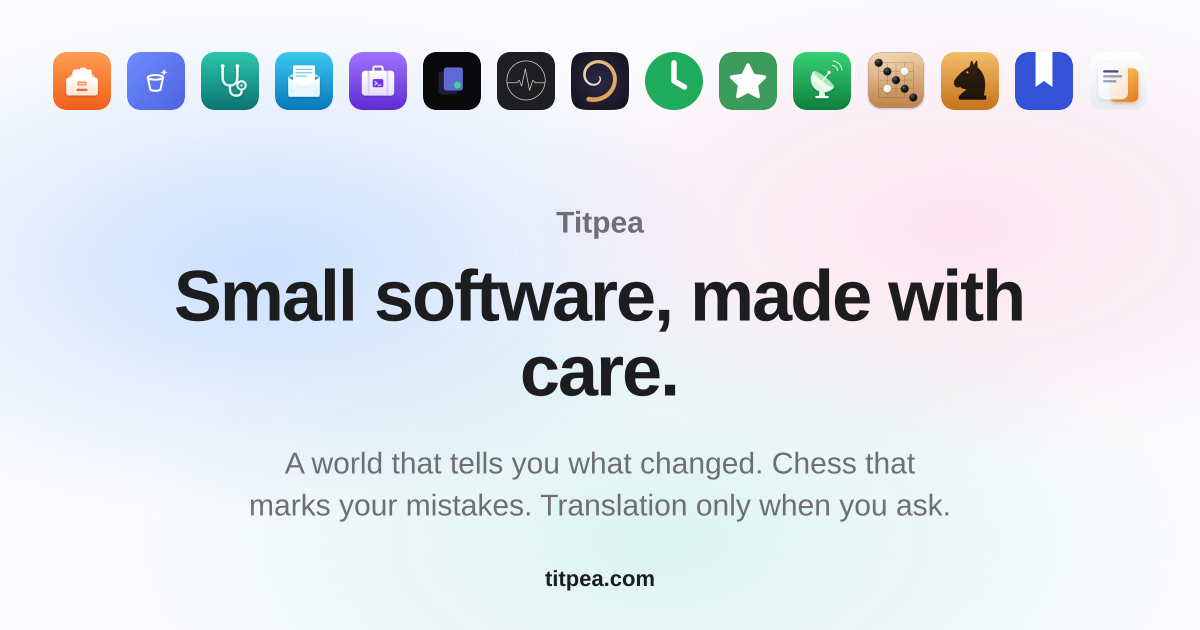
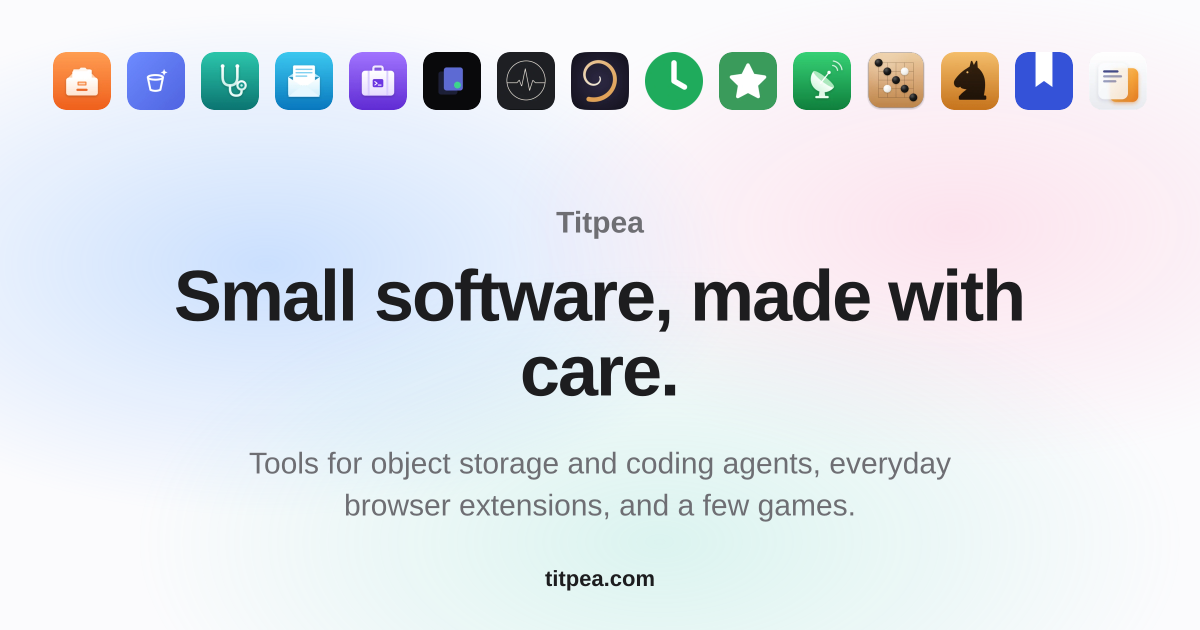
Home lede: say plainly what kinds of software are here (#186)
The owner found the three-riddle lede confusing. It now reads "Tools for
object storage and coding agents, everyday browser extensions, and a few
games." / 对象存储和编码 Agent 工具，日常用的浏览器扩展，还有几款游戏。
The meta description follows suit; share image regenerated.

Claude-Session: https://claude.ai/code/session_01JmaFxrCaTr7J8dy17sm4dB

Changed region(s): [[0.2158, 0.7841, 0.8017, 0.8444], [0.2158, 0.7238, 0.8017, 0.754]]

diff --git a/src/content/site.ts b/src/content/site.ts
@@ -127,8 +127,8 @@ export const ui: Record<Locale, Ui> = {
     homeMetaTitle: "Titpea — Small software by hxddh",
     homeTitle: "Small software, made with care.",
     homeDescription:
-      "Software by one developer, hxddh: a small world, desktop chess that marks your mistakes, translation when you ask, and tools for S3 storage and coding agents.",
-    homeLead: "A world that tells you what changed. Chess that marks your mistakes. Translation only when you ask.",
+      "Software by one developer, hxddh: tools for object storage and coding agents, browser extensions for everyday reading, desktop board games, and a small world.",
+    homeLead: "Tools for object storage and coding agents, everyday browser extensions, and a few games.",
     featuredTitle: "Selected work",
     moreToolsTitle: "Every tool",
     relatedTitle: "More tools",
@@ -216,8 +216,8 @@ export const ui: Record<Locale, Ui> = {
     homeMetaTitle: "Titpea — hxddh 的小软件",
     homeTitle: "认真做的小软件",
     homeDescription:
-      "hxddh 一个人做的软件：回来时告诉你发生了什么的小世界、标出失着的桌面国际象棋、只在你要时出现的译文，以及对象存储和编码 Agent 工具。",
-    homeLead: "回来时告诉你发生了什么的小世界。标出失着的国际象棋。只在你要时出现的译文。",
+      "hxddh 一个人开发的软件：对象存储和编码 Agent 工具、日常用的浏览器扩展、桌面棋类游戏，以及一个小世界。",
+    homeLead: "对象存储和编码 Agent 工具，日常用的浏览器扩展，还有几款游戏。",
     featuredTitle: "主要作品",
     moreToolsTitle: "全部工具",
     relatedTitle: "更多工具",

diff --git a/DESIGN.md b/DESIGN.md
@@ -40,7 +40,7 @@ Every page uses the same few parts. Build new content from them before inventing
 
 **Settled direction — the owner decided this in October 2026 (the studio home, replacing the stacked Omni rows of PR #150 and #153).** Home says who makes this and what the tools have in common, shows that they are alive, then lets a visitor find the right one. Propose a change to this direction in a pull request for the owner to decide; never push it straight to `main`.
 
-- The hero keeps the shelf of app icons (two centred rows, at most eight wide, every product), each a link whose name appears in a small glass label when pointed at or focused. Then the person (`One developer, hxddh` / `hxddh，一个人开发`), the title (`Small software, made with care.` / `认真做的小软件`; a `|` in the copy marks where a title may wrap, so a phone never strands a character), and a lede of three fragments naming the featured products. Two actions: `Browse all {count} tools` jumps to the catalog; `About hxddh ›` is the text link.
+- The hero keeps the shelf of app icons (two centred rows, at most eight wide, every product), each a link whose name appears in a small glass label when pointed at or focused. Then the person (`One developer, hxddh` / `hxddh，一个人开发`), the title (`Small software, made with care.` / `认真做的小软件`; a `|` in the copy marks where a title may wrap, so a phone never strands a character), and a plain lede that says what kinds of software are here (`Tools for object storage and coding agents, everyday browser extensions, and a few games.` / `对象存储和编码 Agent 工具，日常用的浏览器扩展，还有几款游戏。`). No riddles: each phrase names a kind of product a visitor would recognise. Two actions: `Browse all {count} tools` jumps to the catalog; `About hxddh ›` is the text link.
 - `Just shipped` / `最近发布`: the three newest releases from `releases.json` (icon, name, tag, date, and one highlight in the page's language when the release has one), with `All releases ›` to About. Release cadence shows the tools are alive.
 - `Selected work` / `主要作品`: three tall cards side by side, in `featured.order` (World Machine, Chessboard, Bilingual — the owner's picks). Each card is the screenshot (16:11, top-anchored), role kicker, name, one line, `Learn more ›`; the whole card is one link and its image is decorative (`alt=""`; the card's text names it). An image that is not a plain capture keeps its `featured.caption`. Three is the ceiling. Phones stack the cards.
 - `Every tool` / `全部工具`: a segmented filter (All, Storage, Agents, Everyday, Games; hidden without JavaScript, when every line shows), then each line with who it is for (`groupNotes`) and a grid of cards (icon, name, `catalog.text`; three columns, two on tablets, one on phones). Featured products appear in their line too, so a filtered line is complete. No kicker, tag, or date: those live on the product page.
